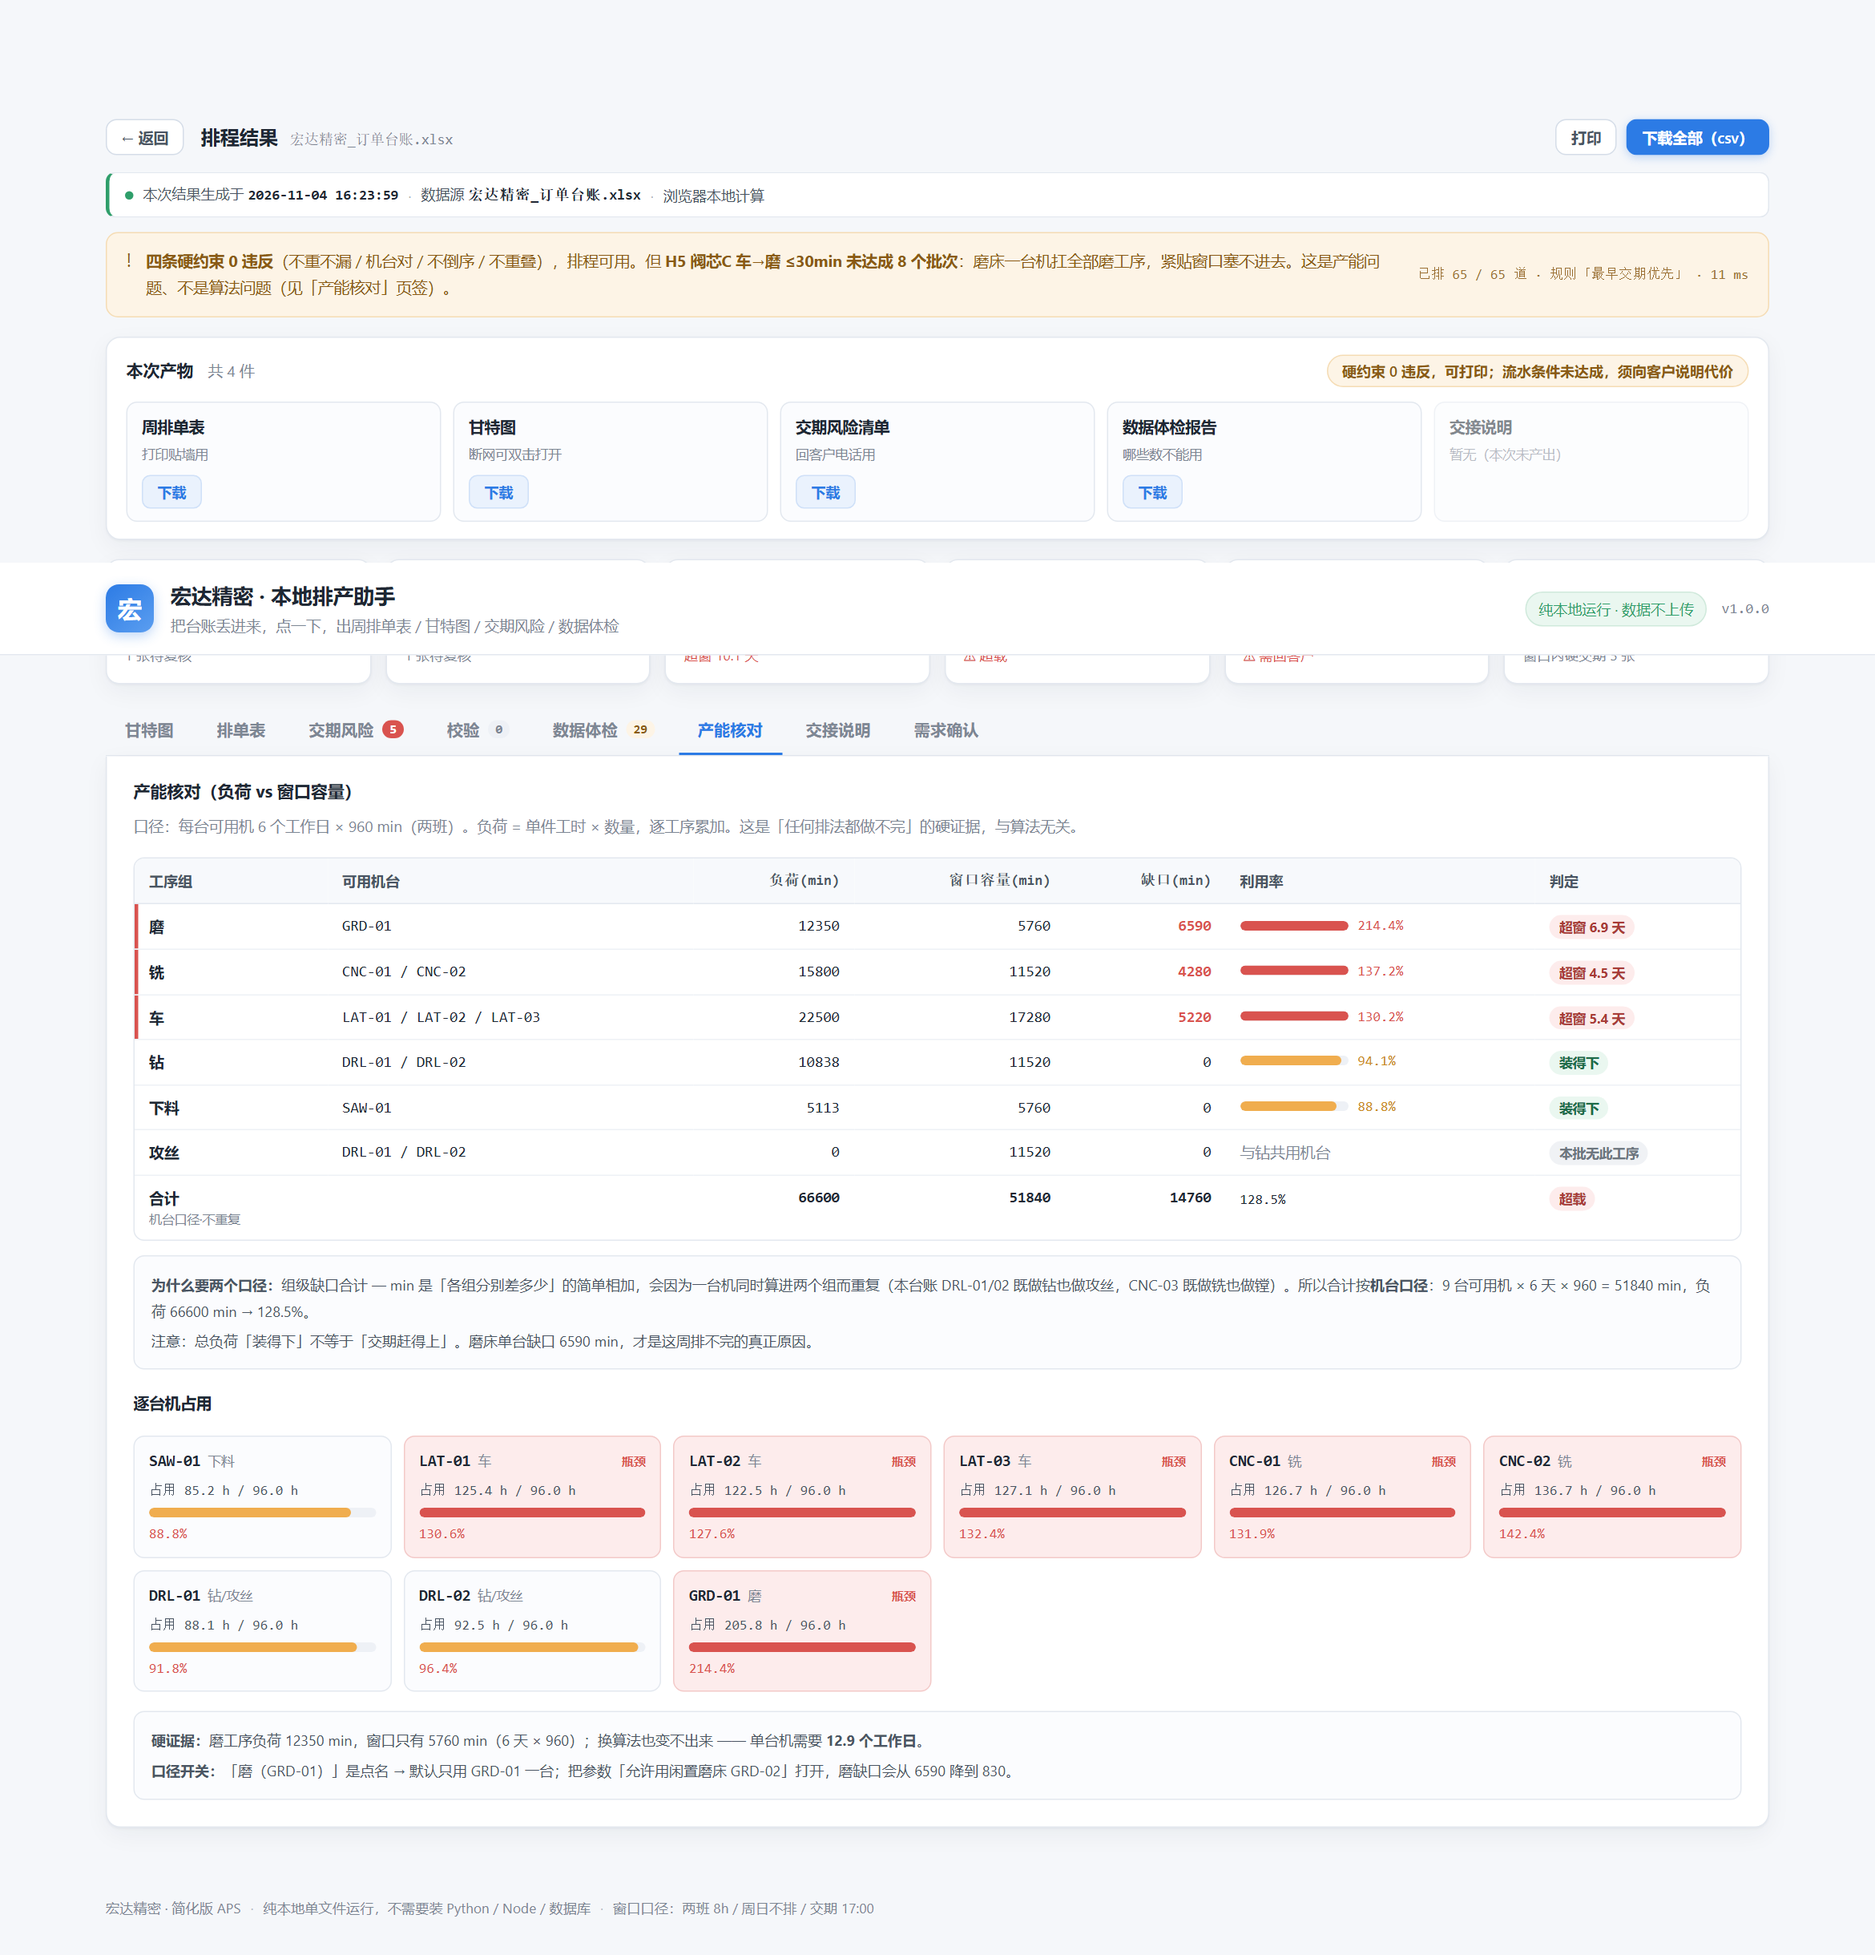
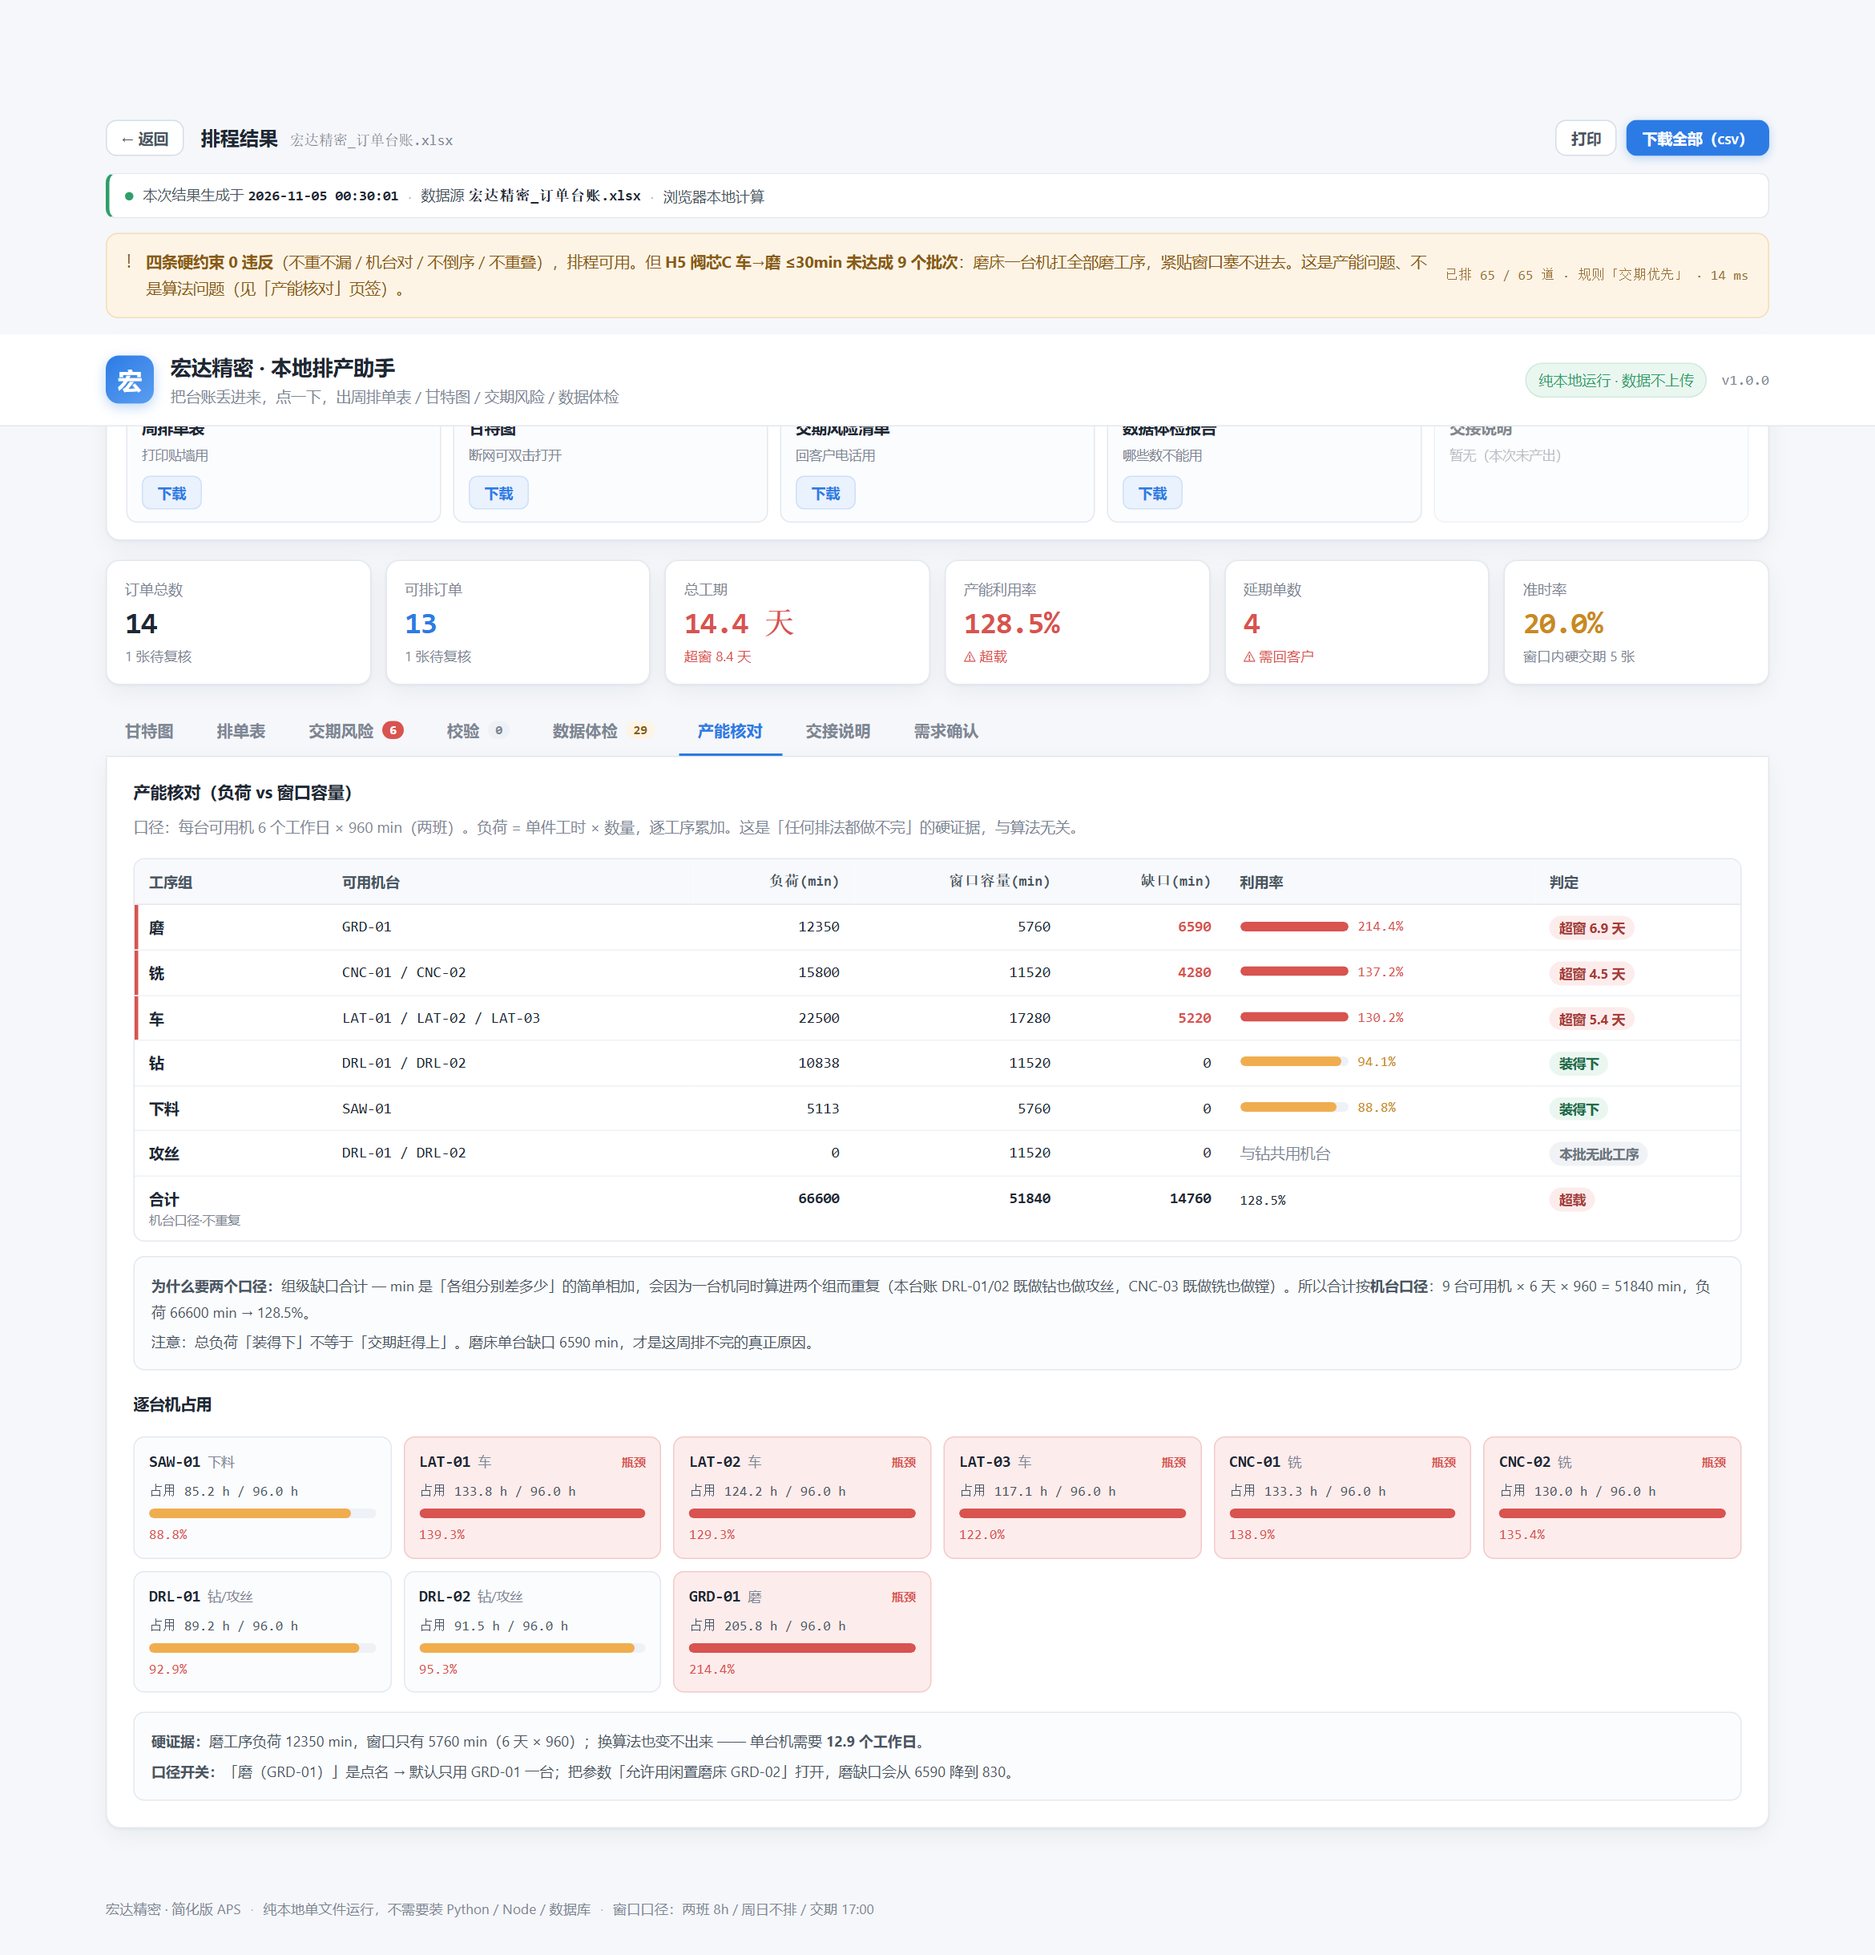
docs: 截图更新至 21 张，.gitignore 排除 .devtools
- docs/ui/ 全套重拍（银行家舍入修复后的最新界面）
- 新增 40-规则对齐风险页：最终规则 FIFO + 逐单卡点
- 附录E 清单同步 21 张
- .gitignore 增加 .devtools/ 与 node_modules/（playwright 19MB 不进仓库）

diff --git a/docs/附录/附录I-交付物模板.md b/docs/附录/附录I-交付物模板.md
@@ -395,19 +395,21 @@ GRD-02    磨             0          0        —    闲置
 
 | 单号 | 类型 | 交期 | 预计完工 | 差额 | 卡在哪台机 | 卡在哪个工序 | 建议动作 |
 |---|---|---|---|---|---:|---|---|
-| HD-2026-101 | 🔴延期 | 11-10 | 11-12 19:20 | +2天 | GRD-01 | 磨 | 启用 GRD-02 / 协商延期 2 天 |
-| HD-2026-102 | 🔴延期 | 11-12 | 11-13 21:40 | +1天 | GRD-01 | 磨 | 同上 |
-| HD-2026-111 | 🔴延期 | 11-11 | 11-12 08:00 | +1天 | CNC-01 | 铣 | 协商延期 |
-| HD-2026-107 | 🟡预警 | 11-13 | 11-13 15:20 | 0天 | CNC-01 | 铣 | 余量<1班，提前备料 |
-| HD-2026-104 | 🔴延期 | 11-14 | 11-16 10:00 | +2天 | GRD-01 | 磨 | 调大 lot_size |
-| HD-2026-106 | ⚪未排入本周 | 11-20* | — | — | — | — | 交期在窗口外，顺延下周 |
-| HD-2026-108 | ⚪未排入本周 | 11-30* | — | — | — | — | 同上 |
-| HD-2026-109 | ⚪未排入本周 | 11-18 | — | — | — | — | 同上 |
-| HD-2026-112 | ⚪未排入本周 | 11-19 | — | — | — | — | 同上 |
-| HD-2026-113 | ⚪未排入本周 | 11-22 | — | — | — | — | 同上 |
-| HD-2026-103-L4 | ⚫排不进 | 无 | — | — | GRD-01 | 磨 | 磨床无≤30min窗口 |
-| HD-2026-110 | ⚫排不进 | 11-15 | — | — | — | — | 数量待确认 |
-| **合计 12 行** | 延期4 / 预警1 / 未排入5 / 排不进2 | | | | | | |
+| HD-2026-101 | 🔴延期 | 11-10 | 11-19 11:10 | +7.6天 | GRD-01 | 磨 | 卡在 GRD-01：启用闲置机台 / 协商延期 7.6 天 / 调大 --lot-size |
+| HD-2026-102 | 🔴延期 | 11-12 | 11-24 13:20 | +9.8天 | GRD-01 | 磨 | 同上 |
+| HD-2026-111 | 🔴延期 | 11-11 | 11-19 19:30 | +7.2天 | GRD-01 | 磨 | 同上 |
+| HD-2026-107 | 🔴延期 | 11-13 | 11-21 17:00 | +7天 | DRL-01 | 钻 | 卡在 DRL-01：本组产能够（利用率 94%），是上游工序排队 |
+| HD-2026-104 | 🟢准时 | 11-14 | 11-12 20:30 | — | GRD-01 | 磨 | — |
+| HD-2026-103 | 🟠急单·无交期 | —（客户催） | 11-18 10:30 | — | GRD-01 | 磨 | 无硬交期但客户催过；已排 11-18 10:30 完工，需回客户确认具体哪天要 |
+| HD-2026-105 | 🟠急单·无交期 | 尽快 | 11-24 18:20 | — | DRL-02 | 钻 | 无硬交期但客户催过；已排 11-24 18:20 完工，需回客户确认具体哪天要 |
+| HD-2026-106 | ⚪未排入本周 | 11-20 | 11-24 11:40 | — | DRL-01 | 钻 | 交期在窗口外，顺延下周 |
+| HD-2026-108 | ⚪未排入本周 | 11-30* | 11-25 14:00 | — | GRD-01 | 磨 | 同上 |
+| HD-2026-109 | ⚪未排入本周 | 11-18 | 11-20 20:10 | — | GRD-01 | 磨 | 同上 |
+| HD-2026-112 | ⚪未排入本周 | 11-19 | 11-23 19:20 | — | DRL-01 | 钻 | 同上 |
+| HD-2026-113 | ⚪未排入本周 | 11-22 | 11-21 10:00 | — | GRD-01 | 磨 | 同上 |
+| HD-2026-106-R2 | ⚪未排入本周 | 11-20 | 11-23 17:40 | — | DRL-02 | 钻 | 同上 |
+| HD-2026-110 | ⚫排不进 | — | — | — | — | — | 数量空白，进闸门；需客户确认数量后回填 |
+| **合计 14 行** | 延期4 / 急单·无交期2 / 未排入本周6 / 排不进1 / 准时1 | | | | | | |
 
 ### I5.1 表下脚注（固定写法）
 
@@ -416,10 +418,13 @@ GRD-02    磨             0          0        —    闲置
 1. 「类型」含义：
    · 延期     = 已排入且预计完工晚于交期
    · 预警     = 已排入且余量不足一个班次
+   · 急单·无交期 = 客户催过但没给硬交期，只能报预计完工，交期要回客户确认
    · 未排入本周 = 交期在 11-14 之后，本周不排，不算延期
    · 排不进   = 受产能或流水约束无法安排，需决策
 2. 带 * 的交期为推算值（「月底前」→ 11-30），非客户原始承诺。
 3. 「卡在哪个工序」指该订单最后完工的那道工序。
+4. 「建议动作」按该机台所属组到底缺不缺产能分两种写法：
+   缺产能才提「启用闲置机台」；产能够的是上游排队，不能指错原因。
 ```
 
 ---

diff --git a/docs/设计文档.md b/docs/设计文档.md
@@ -566,23 +566,28 @@ aps-scheduler/
 |---|---|---|---|---|
 | 🔴 **延期** | `delayed` | 已排入且 `planned_end > 交期@17:00` | ✅ 是 | 打电话跟客户解释 |
 | 🟡 **预警** | `at_risk` | 已排入且余量 < 1 个班次（480 min） | 否 | 提前确认物料 |
-| ⚪ **未排入本周** | `not_scheduled_in_horizon` | 未排入且交期在窗口后 | ❌ **否** | 下周再说 |
+| 🟠 **急单·无交期** | `urgent_no_due` | 无硬交期且 `priority >= 5`（备注「急单」/「客户催」/交期写「尽快」） | — | 只报预计完工，**回客户问具体哪天要**，不得替客户拍日期 |
+| ⚪ **未排入本周** | `not_in_horizon` | 交期在窗口后（无论排没排） | ❌ **否** | 下周再说 |
 | ⚫ **排不进** | `unplannable` | 受产能 / H5 限制无法安排 | — | 需决策（加机器/顺延） |
+
+> **`urgent_no_due` 为什么必须单列**：103「客户催，越早越好」、105「尽快」都没有硬交期，
+> 早期实现一律走 `info["axis"] is None → ok`，报表显示「准时」——
+> 而它们实际完工是 11-18 / 11-24，早就超出本周窗口。
+> 最催的两单显示「准时」，计划员会直接回客户「没问题」，是**假的确定**，比说「尽量」更糟。
+> 单列后只报预计完工，交期由客户确认（手册 5.3：不确定就记「需客户确认」，不要自己拍数字）。
 
 **判定为纯函数**（`report.py` 内，不依赖排程器）：
 
 ```python
-def decide_status(planned_end, due, qty_total, qty_planned, opts):
-    if qty_planned == 0:
-        if due is None:                      return "unplannable"
-        if due > opts.horizon_end:           return "not_scheduled_in_horizon"
-        return "unplannable"
-    if planned_end is None:                  return "unplannable"
-    if qty_planned < qty_total:              return "at_risk"
-    if due is None:                          return "ok"
-    if planned_end > due_at(due, DUE_HOUR):  return "delayed"
-    if (due_at(due, DUE_HOUR) - planned_end).total_seconds()/60 < AT_RISK_MINUTES:
-        return "at_risk"
+def decide_status(planned_end, due, qty_total, qty_planned, horizon, priority=3):
+    if qty_planned <= 0 or planned_end is None:   return "unplannable"
+    if qty_planned + EPS < qty_total:             return "unplannable"
+    info = due_info(due, horizon)
+    if due is not None and not info["in_horizon"]: return "not_in_horizon"
+    if info["axis"] is None:                       # 无硬交期
+        return "urgent_no_due" if priority >= 5 else "ok"
+    if planned_end > info["axis"]:                 return "delayed"
+    if info["axis"] - planned_end < AT_RISK_MINUTES: return "at_risk"
     return "ok"
 ```
 
@@ -590,10 +595,11 @@ def decide_status(planned_end, due, qty_total, qty_planned, opts):
 
 | 类型 | 订单 |
 |---|---|
-| 延期 | 101、102、111、104（这 4 张交期在窗口内且串行下界就超期） |
-| 预警 | 107（交期 11-13，余量不足一班） |
+| 延期 | 101、102、107、111（4 张） |
+| 急单·无交期 | 103、105（2 张） |
 | 未排入本周 | 106、106-R2、108、109、112、113（6 张） |
-| 排不进 | 103（无硬交期但磨床排不下）、110（数量待确认） |
+| 排不进 | 110（数量待确认） |
+| 准时 | 104（1 张） |
 
 ---
 

diff --git a/docs/附录/附录E-UI设计.md b/docs/附录/附录E-UI设计.md
@@ -10,7 +10,7 @@
 
 ## E0. 交付清单（`docs/ui/`）
 
-**实拍截图（17 张，覆盖全流程 + 空态 + 错误态 + 产物区）**
+**实拍截图（21 张，覆盖全流程 + 空态 + 错误态 + 产物区）**
 
 | # | 文件 | 内容 |
 |---|---|---|
@@ -32,6 +32,9 @@
 | 15 | `22-真实后端产物区.png` | 连真实后端时的产物区（含后端下载入口） |
 | 16 | `23-交接说明.png` | 交接说明页签：怎么重跑 / 假设 / 局限 / 什么条件下不能信 |
 | 17 | `24-需求确认.png` | 需求确认单页签：我理解的三件事 / 客户不要的 / 问答 |
+| 18 | `13-急单无交期.png` | 新状态「急单·无交期」：客户催过但未给硬交期，只报预计完工不编交期 |
+| 19 | `14-建议动作长文案.png` | 建议动作长文案：卡在 GRD-01，启用闲置磨床 / 与客户协商顺延 |
+| 20 | `40-规则对齐风险页.png` | 规则对齐后的完整风险页：最终规则 FIFO、急单·无交期 2 单、逐单卡点与建议动作 |
 
 **打印版**：`print.pdf`（A4 横向，打印版式目检）
 
@@ -203,7 +206,7 @@
 ├──────────────────────────────────────────────────────────────────────┤
 │                                                                       │
 │  ① 筛选                                                                 │
-│  类型： [全部 ▼] [延期 4] [预警 1] [未排入本周 6] [排不进 2]            │
+│  类型： [全部 ▼] [延期 4] [预警 1] [急单·无交期 2] [未排入本周 6] [排不进 1] │
 │                                                                       │
 │  ② 风险清单表                                                          │
 │  ┌──────────────┬────────┬──────┬────────┬──────┬────────┬──────────┐│
@@ -239,7 +242,8 @@
 |---|---|---|---|
 | 🔴 延期 | 已排入且 `planned_end > due@17:00` | ✅ 是 | 打电话跟客户解释 |
 | 🟡 预警 | 已排入且余量 < 1 班次 | 否 | 提前确认物料 |
-| ⚪ 未排入本周 | 未排入且交期在窗口后 | ❌ **否** | 下周再说 |
+| 🟠 急单·无交期 | 无硬交期且 `priority >= 5` | — | 只报预计完工，**回客户问哪天要** |
+| ⚪ 未排入本周 | 交期在窗口后（排没排都算） | ❌ **否** | 下周再说 |
 | ⚫ 排不进 | 产能/H5 限制无法安排 | — | 需决策（加机器/顺延） |
 
 ### E3.3 交互说明

diff --git a/README.md b/README.md
@@ -71,7 +71,7 @@ python run.py data\宏达精密_订单台账.xlsx --out out
 
    一句话：只有 FAIL 不能用，其余三种都能用。
 
-2. 再看 out/风险清单.xlsx（看「类型」列：延期/预警/未排入本周/排不进）
+2. 再看 out/风险清单.xlsx（看「类型」列：延期/预警/急单·无交期/未排入本周/排不进）
 3. 最后打印 out/排单表.xlsx
 ```
 
